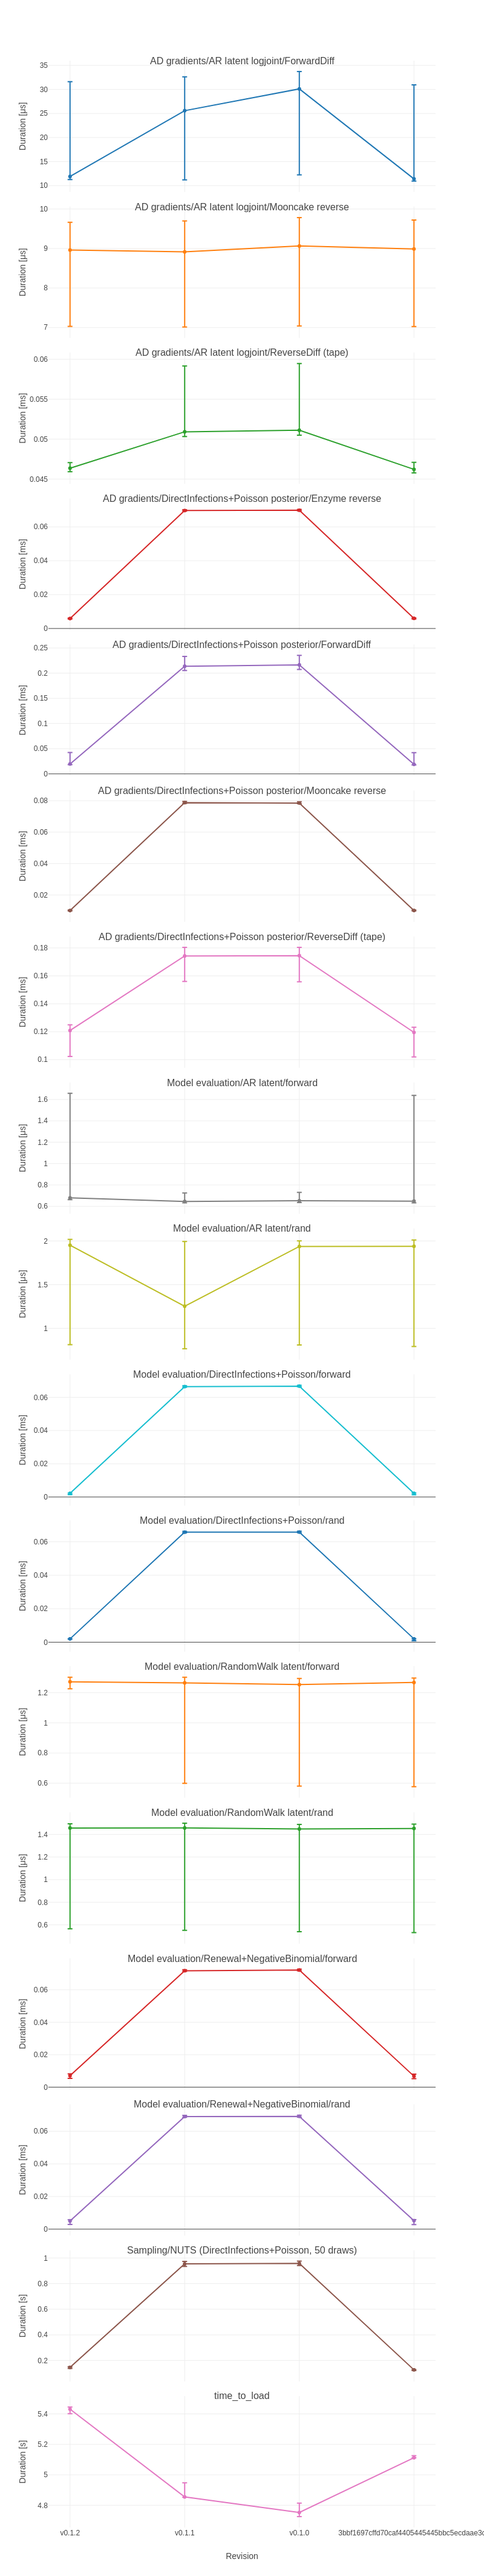
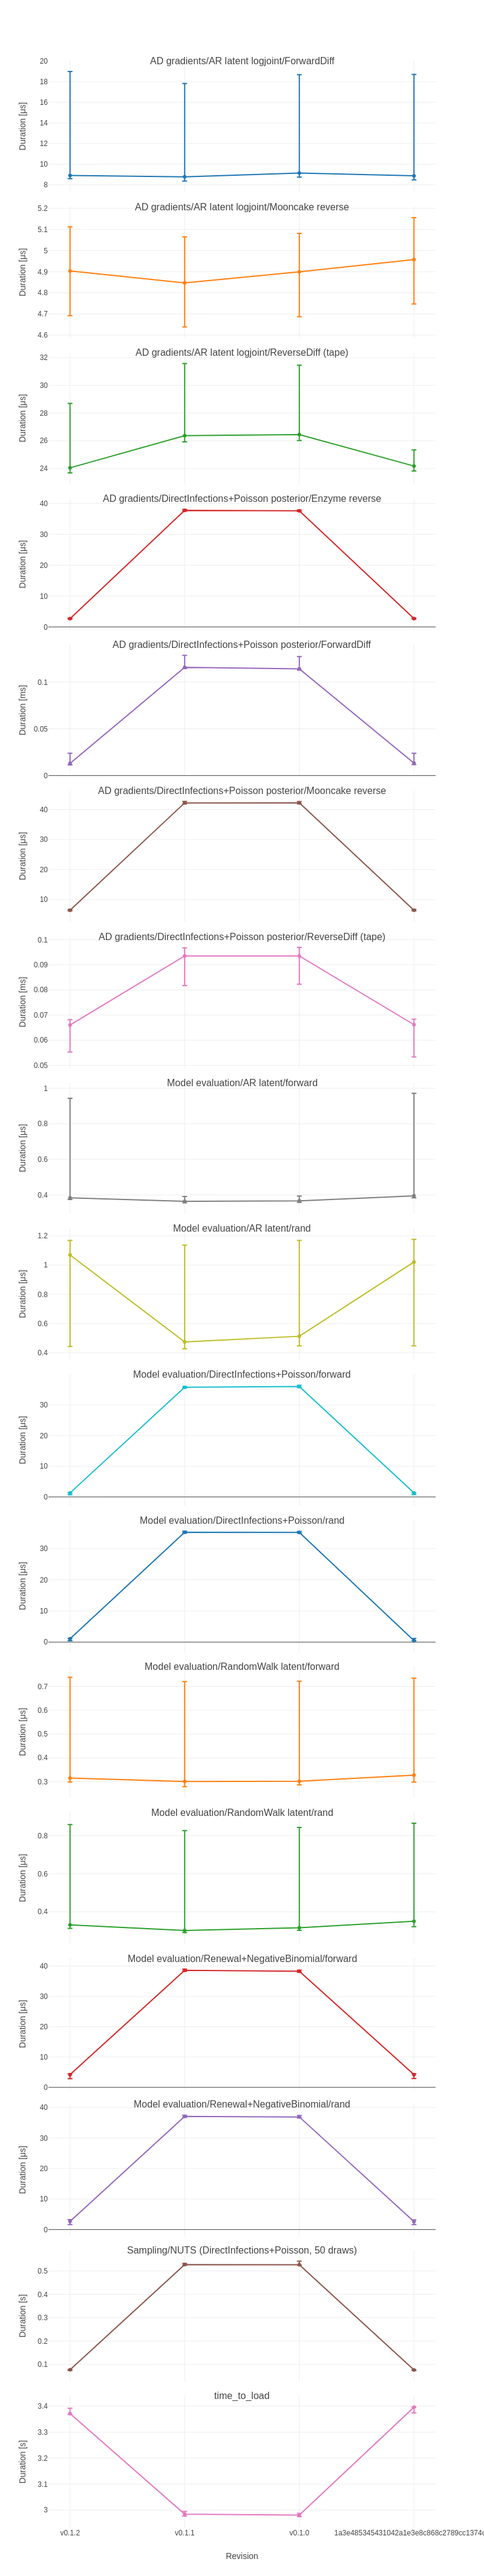
Deploying to benchmarks from @ EpiAware/ComposableTuringIDModels.jl@1a3e485345431042a1e3e8c868c2789cc1374c9d 🚀

diff --git a/history/table.md b/history/table.md
@@ -1,24 +1,24 @@
-|                                                                    | v0.1.2             | v0.1.1              | v0.1.0              | 3bbf1697cffd70...  |
-|:-------------------------------------------------------------------|:------------------:|:-------------------:|:-------------------:|:------------------:|
-| AD gradients/AR latent logjoint/ForwardDiff                        | 11.9 ± 20 μs       | 25.6 ± 21 μs        | 30.1 ± 21 μs        | 11.4 ± 20 μs       |
-| AD gradients/AR latent logjoint/Mooncake reverse                   | 8.96 ± 2.6 μs      | 8.92 ± 2.7 μs       | 9.06 ± 2.7 μs       | 8.99 ± 2.7 μs      |
-| AD gradients/AR latent logjoint/ReverseDiff (tape)                 | 0.0464 ± 0.0012 ms | 0.0509 ± 0.0088 ms  | 0.0511 ± 0.009 ms   | 0.0462 ± 0.0013 ms |
-| AD gradients/DirectInfections+Poisson posterior/Enzyme reverse     | 5.89 ± 0.5 μs      | 0.0696 ± 0.00086 ms | 0.0698 ± 0.0008 ms  | 6 ± 0.61 μs        |
-| AD gradients/DirectInfections+Poisson posterior/ForwardDiff        | 19.6 ± 24 μs       | 0.214 ± 0.028 ms    | 0.216 ± 0.028 ms    | 18.9 ± 24 μs       |
-| AD gradients/DirectInfections+Poisson posterior/Mooncake reverse   | 10.2 ± 0.52 μs     | 0.0788 ± 0.0012 ms  | 0.0785 ± 0.0012 ms  | 10.2 ± 0.48 μs     |
-| AD gradients/DirectInfections+Poisson posterior/ReverseDiff (tape) | 0.121 ± 0.023 ms   | 0.174 ± 0.024 ms    | 0.174 ± 0.025 ms    | 0.12 ± 0.021 ms    |
-| Model evaluation/AR latent/forward                                 | 0.679 ± 1 μs       | 0.645 ± 0.092 μs    | 0.652 ± 0.094 μs    | 0.649 ± 1 μs       |
-| Model evaluation/AR latent/rand                                    | 1.95 ± 1.2 μs      | 1.25 ± 1.2 μs       | 1.94 ± 1.2 μs       | 1.94 ± 1.2 μs      |
-| Model evaluation/DirectInfections+Poisson/forward                  | 2.23 ± 0.95 μs     | 0.0664 ± 0.00091 ms | 0.0667 ± 0.00093 ms | 2.24 ± 1 μs        |
-| Model evaluation/DirectInfections+Poisson/rand                     | 2 ± 0.19 μs        | 0.0657 ± 0.0009 ms  | 0.0658 ± 0.00087 ms | 2 ± 1.2 μs         |
-| Model evaluation/RandomWalk latent/forward                         | 1.27 ± 0.077 μs    | 1.27 ± 0.7 μs       | 1.25 ± 0.71 μs      | 1.27 ± 0.72 μs     |
-| Model evaluation/RandomWalk latent/rand                            | 1.46 ± 0.93 μs     | 1.46 ± 0.95 μs      | 1.45 ± 0.95 μs      | 1.45 ± 0.96 μs     |
-| Model evaluation/Renewal+NegativeBinomial/forward                  | 7.04 ± 2.8 μs      | 0.0717 ± 0.001 ms   | 0.0721 ± 0.001 ms   | 6.75 ± 2.8 μs      |
-| Model evaluation/Renewal+NegativeBinomial/rand                     | 4.99 ± 2.9 μs      | 0.0691 ± 0.0013 ms  | 0.0691 ± 0.0013 ms  | 5.21 ± 3.1 μs      |
-| Sampling/NUTS (DirectInfections+Poisson, 50 draws)                 | 0.146 ± 0.012 s    | 0.954 ± 0.04 s      | 0.957 ± 0.034 s     | 0.127 ± 0.0071 s   |
-| time_to_load                                                       | 5.43 ± 0.044 s     | 4.85 ± 0.095 s      | 4.75 ± 0.088 s      | 5.11 ± 0.014 s     |
+|                                                                    | v0.1.2            | v0.1.1              | v0.1.0              | 1a3e4853454310... |
+|:-------------------------------------------------------------------|:-----------------:|:-------------------:|:-------------------:|:-----------------:|
+| AD gradients/AR latent logjoint/ForwardDiff                        | 8.91 ± 10 μs      | 8.78 ± 9.5 μs       | 9.14 ± 9.9 μs       | 8.87 ± 10 μs      |
+| AD gradients/AR latent logjoint/Mooncake reverse                   | 4.9 ± 0.42 μs     | 4.85 ± 0.43 μs      | 4.9 ± 0.39 μs       | 4.96 ± 0.41 μs    |
+| AD gradients/AR latent logjoint/ReverseDiff (tape)                 | 24 ± 5 μs         | 26.4 ± 5.7 μs       | 26.4 ± 5.4 μs       | 24.2 ± 1.5 μs     |
+| AD gradients/DirectInfections+Poisson posterior/Enzyme reverse     | 2.68 ± 0.28 μs    | 0.0378 ± 0.00053 ms | 0.0376 ± 0.00047 ms | 2.7 ± 0.28 μs     |
+| AD gradients/DirectInfections+Poisson posterior/ForwardDiff        | 13.1 ± 12 μs      | 0.116 ± 0.014 ms    | 0.114 ± 0.014 ms    | 13.4 ± 12 μs      |
+| AD gradients/DirectInfections+Poisson posterior/Mooncake reverse   | 6.47 ± 0.46 μs    | 0.0422 ± 0.00081 ms | 0.0422 ± 0.00073 ms | 6.48 ± 0.45 μs    |
+| AD gradients/DirectInfections+Poisson posterior/ReverseDiff (tape) | 0.066 ± 0.013 ms  | 0.0935 ± 0.015 ms   | 0.0935 ± 0.015 ms   | 0.0662 ± 0.015 ms |
+| Model evaluation/AR latent/forward                                 | 0.383 ± 0.57 μs   | 0.363 ± 0.035 μs    | 0.367 ± 0.036 μs    | 0.395 ± 0.59 μs   |
+| Model evaluation/AR latent/rand                                    | 1.07 ± 0.73 μs    | 0.474 ± 0.71 μs     | 0.513 ± 0.72 μs     | 1.02 ± 0.73 μs    |
+| Model evaluation/DirectInfections+Poisson/forward                  | 1.31 ± 0.62 μs    | 0.0358 ± 0.00051 ms | 0.036 ± 0.00074 ms  | 1.32 ± 0.61 μs    |
+| Model evaluation/DirectInfections+Poisson/rand                     | 1.07 ± 0.72 μs    | 0.0352 ± 0.00058 ms | 0.0352 ± 0.00053 ms | 0.504 ± 0.72 μs   |
+| Model evaluation/RandomWalk latent/forward                         | 0.315 ± 0.44 μs   | 0.301 ± 0.44 μs     | 0.302 ± 0.44 μs     | 0.328 ± 0.44 μs   |
+| Model evaluation/RandomWalk latent/rand                            | 0.331 ± 0.54 μs   | 0.302 ± 0.54 μs     | 0.317 ± 0.54 μs     | 0.351 ± 0.54 μs   |
+| Model evaluation/Renewal+NegativeBinomial/forward                  | 4.19 ± 1.6 μs     | 0.0386 ± 0.00068 ms | 0.0383 ± 0.00065 ms | 4.2 ± 1.6 μs      |
+| Model evaluation/Renewal+NegativeBinomial/rand                     | 2.65 ± 1.7 μs     | 0.0371 ± 0.00072 ms | 0.0369 ± 0.00082 ms | 2.6 ± 1.6 μs      |
+| Sampling/NUTS (DirectInfections+Poisson, 50 draws)                 | 0.0771 ± 0.0032 s | 0.528 ± 0.0083 s    | 0.527 ± 0.018 s     | 0.0765 ± 0.0037 s |
+| time_to_load                                                       | 3.37 ± 0.024 s    | 2.98 ± 0.018 s      | 2.98 ± 0.012 s      | 3.4 ± 0.023 s     |
 
-|                                                                    | v0.1.2                    | v0.1.1                    | v0.1.0                    | 3bbf1697cffd70...         |
+|                                                                    | v0.1.2                    | v0.1.1                    | v0.1.0                    | 1a3e4853454310...         |
 |:-------------------------------------------------------------------|:-------------------------:|:-------------------------:|:-------------------------:|:-------------------------:|
 | AD gradients/AR latent logjoint/ForwardDiff                        | 0.059 k allocs: 0.0512 MB | 0.056 k allocs: 0.0508 MB | 0.056 k allocs: 0.0508 MB | 0.059 k allocs: 0.0512 MB |
 | AD gradients/AR latent logjoint/Mooncake reverse                   | 0.047 k allocs: 5.2 kB    | 0.04 k allocs: 4.98 kB    | 0.04 k allocs: 4.98 kB    | 0.047 k allocs: 5.2 kB    |

diff --git a/history/README.md b/history/README.md
@@ -1,6 +1,6 @@
 # ComposableTuringIDModels.jl benchmark history
 
-Revisions: v0.1.2,v0.1.1,v0.1.0,3bbf1697cffd70caf4405445445bbc5ecdaae3c4
+Revisions: v0.1.2,v0.1.1,v0.1.0,1a3e485345431042a1e3e8c868c2789cc1374c9d
 
 See `table.md` for the ratio summary and the PNG
 files in this folder for per-benchmark timelines.
